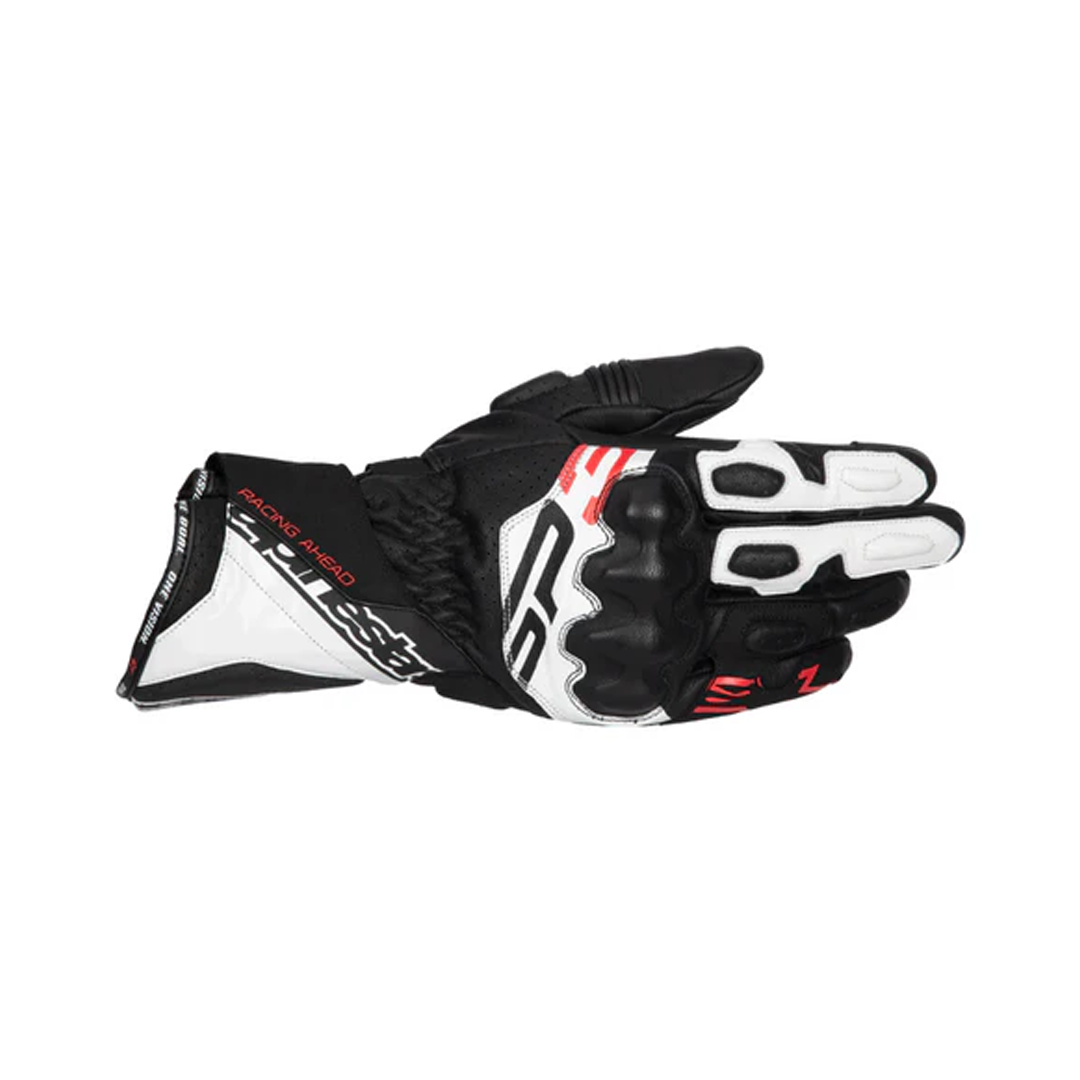
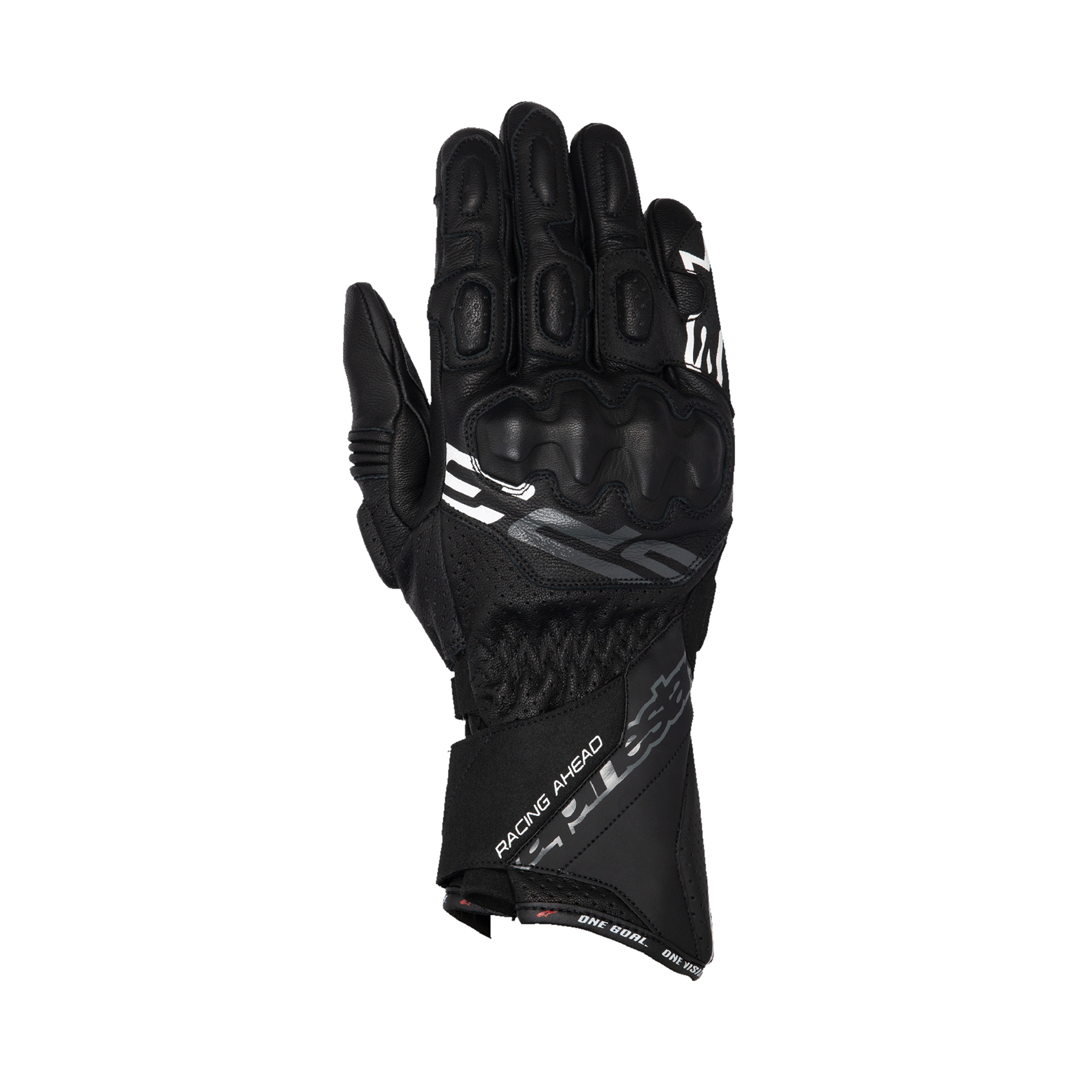
chore(seed): add RST S-1 Leather CE, Alpinestars T-SPS Air, and Alpinestars Faster V2 jackets; add SP3 gloves image

Changed region(s): [[0.0917, 0.0917, 0.9167, 0.9167]]

diff --git a/prisma/seed.ts b/prisma/seed.ts
@@ -394,6 +394,7 @@ async function main() {
       },
     },
   })
+  
 
   // JACKET
 
@@ -412,6 +413,65 @@ async function main() {
       images: {
         create: [
           { url: '/listing-images/Jacket/RST_S1_MESH_D3O_TEXTILE_JACKET_1.png', order: 0 },
+        ],
+      },
+    },
+  })
+  await prisma.listing.create({
+    data: {
+      title: 'RST S-1 LEATHER CE',
+      description: 'The S-1 CE Men’s Leather Race Suit Jacket represents the pinnacle of racing gear, meticulously designed for both practicality and style. Equipped with waist adjusters and neoprene comfort cuffs, this jacket combines tailored fit and performance. Sporting shoulder sliders and a 360-degree zip for compatibility with S-1 CE Men’s Leather Jeans, it offers an elevated racing experience. Elevate your race game with this sleek and protective gear that embodies the essence of high-speed precision.',
+      category: 'JACKET',
+      brand: 'RST',
+      size: 'XS',
+      price: 6999,
+      condition: 'NEW',
+      location: 'GAUTENG',
+      status: 'ACTIVE',
+      sellerId: user1.id,
+      images: {
+        create: [
+          { url: '/listing-images/Jacket/RST_S1_LEATHER_CE_JACKET_1.png', order: 0 },
+        ],
+      },
+    },
+  })
+  await prisma.listing.create({
+    data: {
+      title: 'Alpinestars T-SPS Air',
+      description: 'The T-SPS Air Jacket features an advanced poly-fabric main shell for high levels of tear and abrasion resistance. Featuring air vents, and large mesh panels on the chest, back and arms, the T-SPS Air Jacket is ideal for a wide range of weather conditions. With class-leading Nucleon Flex Plus protection on the shoulder and elbow and the option to upgrade with Alpinestars Nucleon chest and back protection, the T-SPS Air Jacket is ideal for urban riding.',
+      category: 'JACKET',
+      brand: 'ALPINESTARS',
+      size: 'XS',
+      price: 5399,
+      condition: 'NEW',
+      location: 'GAUTENG',
+      status: 'ACTIVE',
+      sellerId: user1.id,
+      images: {
+        create: [
+          { url: '/listing-images/Jacket/ALPINESTARS_T_SPS_AIR_1.png', order: 0 },
+          { url: '/listing-images/Jacket/ALPINESTARS_T_SPS_AIR_2.png', order: 1 },
+        ],
+      },
+    },
+  })
+  await prisma.listing.create({
+    data: {
+      title: 'Alpinestars Faster V2 Leather',
+      description: 'A superbly styled sport riding garment with premium leather and extensive stretch paneling, the Faster v2 Jacket is brimming with protective and performance features.',
+      category: 'JACKET',
+      brand: 'ALPINESTARS',
+      size: 'S',
+      price: 10999,
+      condition: 'NEW',
+      location: 'WESTERN_CAPE',
+      status: 'ACTIVE',
+      sellerId: user1.id,
+      images: {
+        create: [
+          { url: '/listing-images/Jacket/ALPINESTARS_FASTER_V2_LEATHER_1.png', order: 0 },
+          { url: '/listing-images/Jacket/ALPINESTARS_FASTER_V2_LEATHER_2.png', order: 1 },
         ],
       },
     },
@@ -669,6 +729,7 @@ async function main() {
       images: {
         create: [
           { url: '/listing-images/Gloves/ALPINESTARS_SP3_GLOVES_1.png', order: 0 },
+          { url: '/listing-images/Gloves/ALPINESTARS_SP3_GLOVES_2.png', order: 1 },
         ],
       },
     },
@@ -848,3 +909,4 @@ main()
   .finally(async () => {
     await prisma.$disconnect()
   })
+